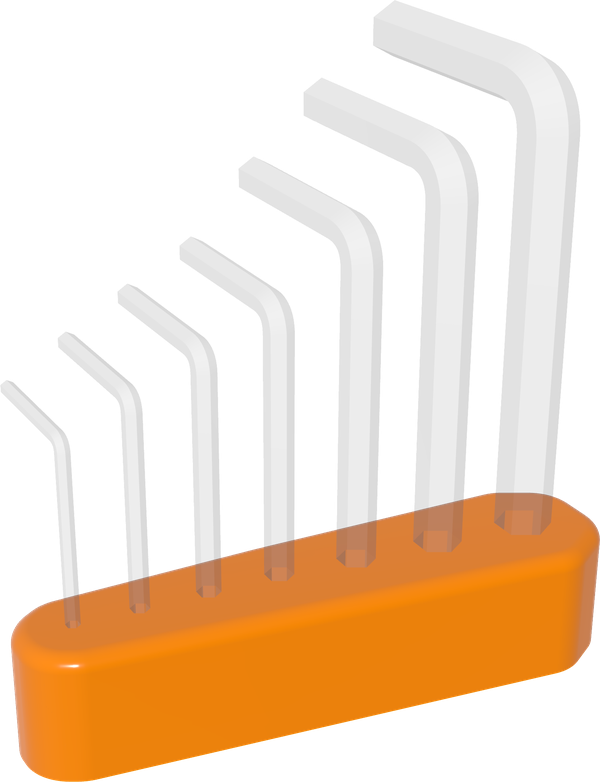
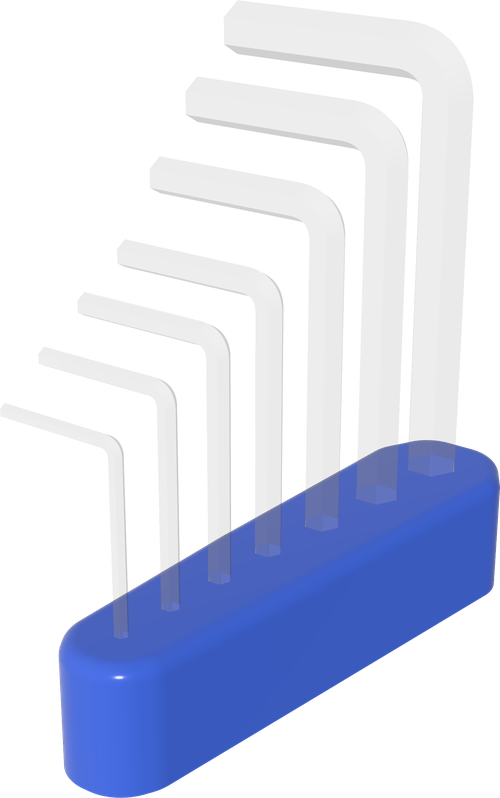
Make the README hex key holder blue and narrower
Royal blue pairs with the tomato hero image instead of clashing with it,
and a view along the row of keys makes the image narrow enough that the
code beside it isn't clipped.

diff --git a/README.md b/README.md
@@ -16,7 +16,7 @@ Full documentation, including [What is Cadova?](https://tomasf.github.io/Cadova/
 ![Platforms](https://img.shields.io/badge/Platforms-macOS_|_Linux_|_Windows_|_Web-2a7de1?logo=swift&logoColor=white)
 
 ## Example
-<img src=".github/assets/hex-key-holder.png" alt="A hex key holder with its keys" width="30%" align="right">
+<img src=".github/assets/hex-key-holder.png" alt="A hex key holder with its keys" width="24%" align="right">
 
 ```swift
 await Model("Hex key holder") {
@@ -43,7 +43,7 @@ await Model("Hex key holder") {
             .convexHull()
             .extruded(height: 16, topEdge: .fillet(radius: 2))
             .subtracting { keys }
-            .withMaterial(.glossyPlastic(.darkOrange))
+            .withMaterial(.glossyPlastic(.royalBlue))
 
         keys.inPart(
             name: "Keys",
